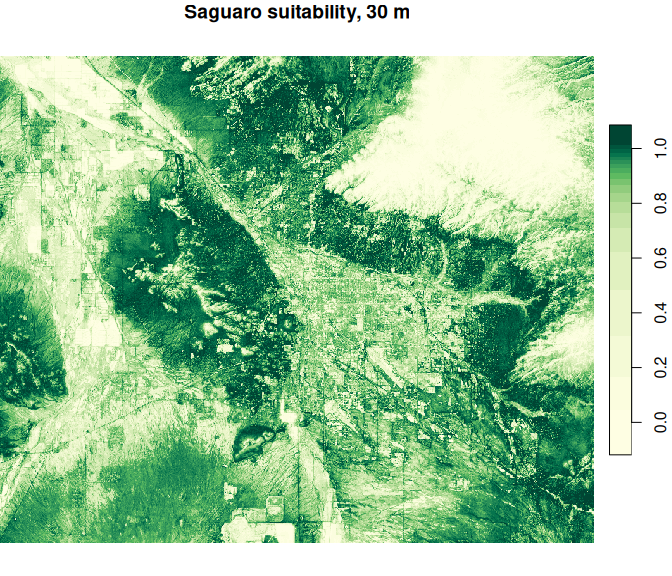
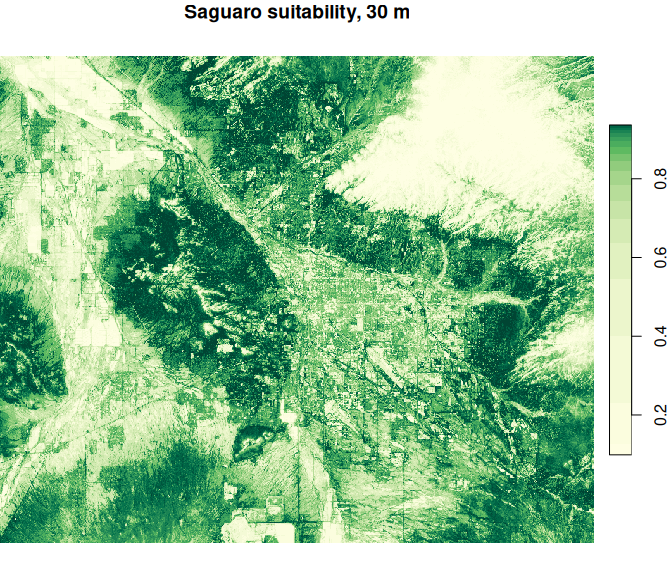
Evaluate the vignette on next year's records; show per-model settings
Fit on 2022 saguaro records and test on independent 2023 records against
random background, instead of scoring against the training pseudo-absences.
A new section switches the SVM to a regression with an RBF kernel through
params, raising its Boyce index from 0.33 to 0.96. The README example
tests on 2023 records too.

diff --git a/README.md b/README.md
@@ -70,28 +70,34 @@ paste a code instead. `clear_gee_credentials()` resets everything.
 
 ## Example
 
-Download one year of saguaro records from GBIF, add pseudo-absences, evaluate
-the default ensemble on a spatial holdout, and map suitability:
+Download saguaro records from GBIF, fit the default ensemble on 2022 records,
+test it on 2023 records, and map suitability:
 
 ```r
 library(AlphaSDM)
 
-url <- paste0("https://api.gbif.org/v1/occurrence/search?",
-              "scientificName=Carnegiea%20gigantea&year=2022",
-              "&hasCoordinate=true&hasGeospatialIssue=false",
-              "&coordinateUncertaintyInMeters=0,30",
-              "&decimalLongitude=-111.4,-110.6&decimalLatitude=31.9,32.6&limit=300")
-obs <- do.call(rbind, lapply(c(0, 300), function(offset)
-  jsonlite::fromJSON(paste0(url, "&offset=", offset))$results[
-    , c("decimalLongitude", "decimalLatitude", "year")]))
+gbif_records <- function(year) {
+  url <- paste0("https://api.gbif.org/v1/occurrence/search?",
+                "scientificName=Carnegiea%20gigantea&year=", year,
+                "&hasCoordinate=true&hasGeospatialIssue=false",
+                "&coordinateUncertaintyInMeters=0,30",
+                "&decimalLongitude=-111.4,-110.6&decimalLatitude=31.9,32.6&limit=300")
+  do.call(rbind, lapply(c(0, 300), function(offset)
+    jsonlite::fromJSON(paste0(url, "&offset=", offset))$results[
+      , c("decimalLongitude", "decimalLatitude", "year")]))
+}
+coords <- c("decimalLongitude", "decimalLatitude")
 
-pres <- format_data(obs, coords = c("decimalLongitude", "decimalLatitude"), year = "year")
+# Fit on 2022 records with pseudo-absences
+pres <- format_data(gbif_records(2022), coords = coords, year = "year")
 occ  <- generate_pseudo_absences(pres, aoi = "bbox", strategy = "combined",
                                  n = nrow(pres), aoi_year = 2022)
 
-set.seed(1)
-test <- stats::kmeans(occ[, c("longitude", "latitude")], centers = 5)$cluster == 1
-fit  <- evaluate_models(occ[!test, ], predict_coords = occ[test, ])
+# Test on 2023 records against random background
+pres_2023 <- format_data(gbif_records(2023), coords = coords, year = "year")
+test <- generate_pseudo_absences(pres_2023, aoi = "bbox", strategy = "random",
+                                 n = 2000, aoi_year = 2023)
+fit  <- evaluate_models(occ, predict_coords = test)
 fit$metrics$ensemble
 
 maps <- generate_map(occ, aoi = "bbox", scale = 30, aoi_year = 2022,
